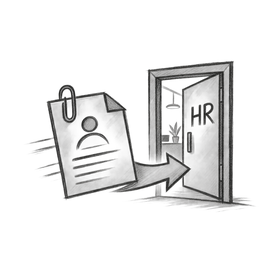
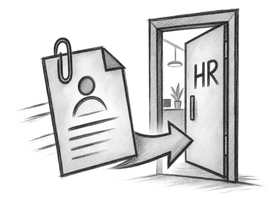
Kandidat-an-HR-Kachel: Motiv groesser (4:3, volle Kachelbreite)

diff --git a/wwwroot/index.html b/wwwroot/index.html
@@ -9,7 +9,7 @@
     <meta name="viewport" content="width=device-width, initial-scale=1.0">
     <title>OneCrew</title>
     <link href="https://fonts.googleapis.com/css2?family=Inter:wght@300;400;500;600;700&display=swap" rel="stylesheet">
-    <link rel="stylesheet" href="css/app.css?v=20260815a">
+    <link rel="stylesheet" href="css/app.css?v=20260815b">
 </head>
 <body>
 
@@ -3114,7 +3114,7 @@
                             <span>Bewerbungsbogen</span>
                         </button>
                         <button type="button" class="ra-tile" onclick="openKandidatModal()">
-                            <img src="img/Kandidat-an-HR.png?v=20260815d" alt="" loading="lazy">
+                            <img src="img/Kandidat-an-HR.png?v=20260815e" alt="" loading="lazy">
                             <span>Kandidat an HR</span>
                         </button>
                         <button type="button" class="ra-tile" onclick="showPage('absenz-kalender')">

diff --git a/wwwroot/css/app.css b/wwwroot/css/app.css
@@ -9537,8 +9537,9 @@ body.theme-dark .kz-menu-item:hover { color: #ffffff; }
 }
 .ra-tile img { margin-top: auto; }
 /* Eng zugeschnittene Motive → etwas groesser in der Kachel */
-.ra-tile img[src*="bewerbungsbogen.png"],
-.ra-tile img[src*="Kandidat-an-HR.png"] { width: 104px; height: 104px; }
+.ra-tile img[src*="bewerbungsbogen.png"] { width: 104px; height: 104px; }
+/* Kandidat an HR: Quermotiv → volle Kachelbreite ausnutzen */
+.ra-tile img[src*="Kandidat-an-HR.png"] { width: 110px; height: 110px; }
 body.theme-dark .ra-tile { background: rgba(255,255,255,0.08); color: #d6d3cc; }
 body.theme-dark .ra-tile img { filter: invert(0.88) hue-rotate(180deg); }
 /* Bewerbungsbogen-Icon 1:1 — nicht invertieren (Walter 28.07.2026). */
